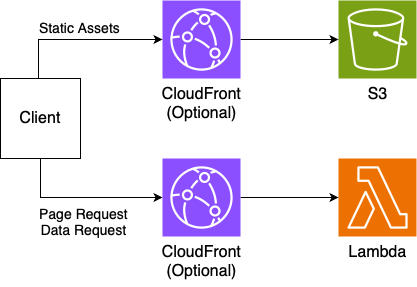
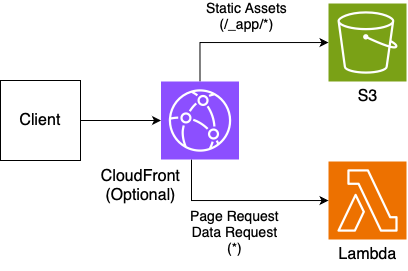
update docs

Changed region(s): [[0.0, 0.0, 1.0, 0.9742], [0.0294, 0.3838, 0.1471, 0.4723]]

diff --git a/README.md b/README.md
@@ -49,24 +49,32 @@ See [Adapter Options](./packages/adapter/src/types/AdapterOptions.ts)
 This adapter allows you to choose from multiple architectures depending on your use case.
 
 - [lambda-mono](./docs/lambda-mono/README.md)
-- [lambda-s3](./docs/lambda-s3/README.md)
-- [edge-bundled](./docs/edge-bundled/README.md)
-- [edge-unbundled](./docs/edge-unbundled/README.md)
+- [lambda-s3](./docs/lambda-s3/README.md)(WIP)(Default)
+- [edge-bundled](./docs/edge-bundled/README.md)(WIP)
+- [edge-unbundled](./docs/edge-unbundled/README.md)(WIP)
 
-|                | Streaming | Scaling | Round Trip | Same Origin |
-| -------------- | --------- | ------- | ---------- | ----------- |
-| lambda-mono    | ✅        |         | ✅         | ✅          |
-| lambda-s3      | ✅        | ✅      | ✅         |             |
-| edge-bundled   |           | ✅      | ✅         | ✅          |
-| edge-unbundled | ✅        | ✅      |            | ✅          |
+|                | Streaming | Scaling | Round Trip |
+| -------------- | --------- | ------- | ---------- |
+| lambda-mono    | ✅        |         | ✅         |
+| lambda-s3      | ✅        | ✅      | ✅         |
+| edge-bundled   |           | ✅      | ✅         |
+| edge-unbundled | ✅        | ✅      |            |
 
 ## CI/CD
 
-WIP
+[GitHub Actions Example](./.github/workflows)
+
+1. Setup AWS CLI
+2. Setup AWS Credential
+3. Build Application
 
 ## Manual Deploy
 
-WIP
+If the automatic deployment option is false, you can deploy the app at any time by running the following command after the app build is complete.
+
+```sh
+cd ./build && npx cdk deploy
+```
 
 ## Directory
 

diff --git a/docs/lambda-s3/README.md b/docs/lambda-s3/README.md
@@ -6,13 +6,11 @@ This architecture uploads static assets to S3 and handles server requests with L
 
 ## Pros
 
-- Reducing Lambda load
+- Reducing Lambda load for static assets request
 
 ## Cons
 
-- Require Multiple Origin
-
-If you use your custom domain, you will need to manage multiple domains such as subdomains.
+- Splitting Origin when without CloudFront
 
 - Limited Pre-rendering
 
